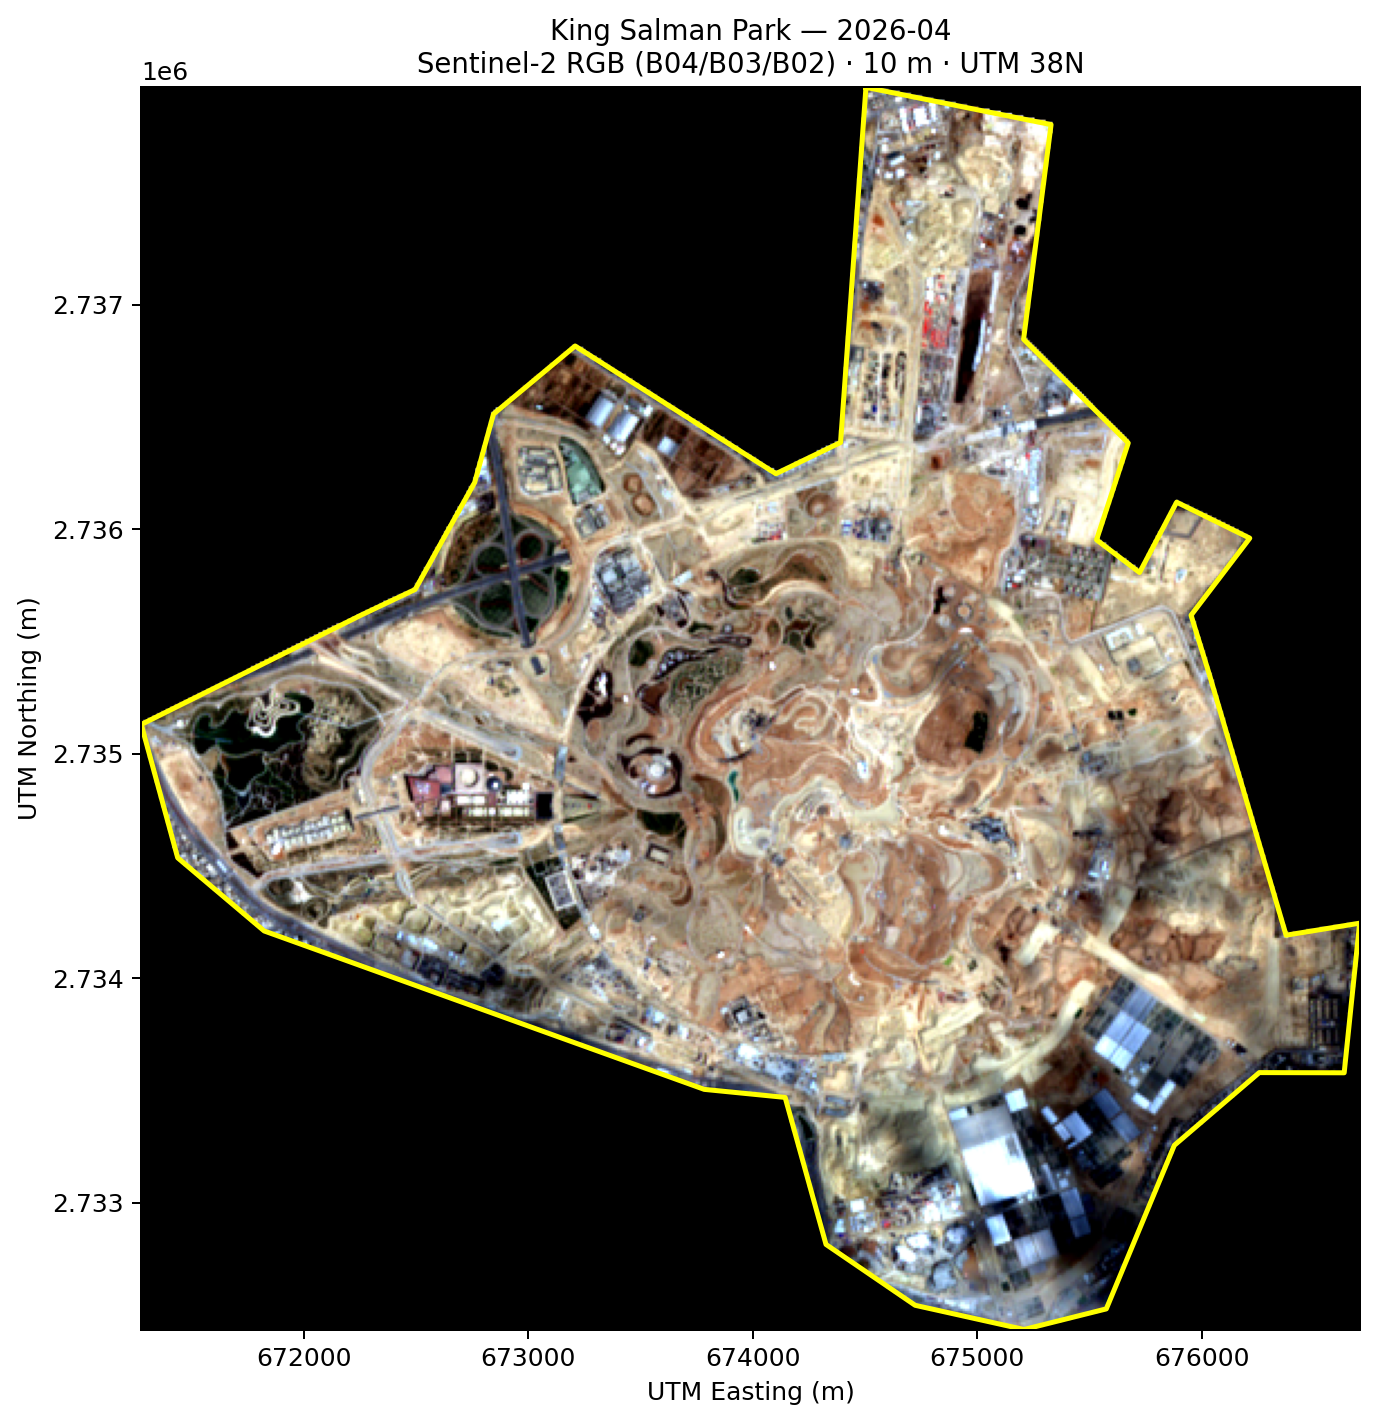
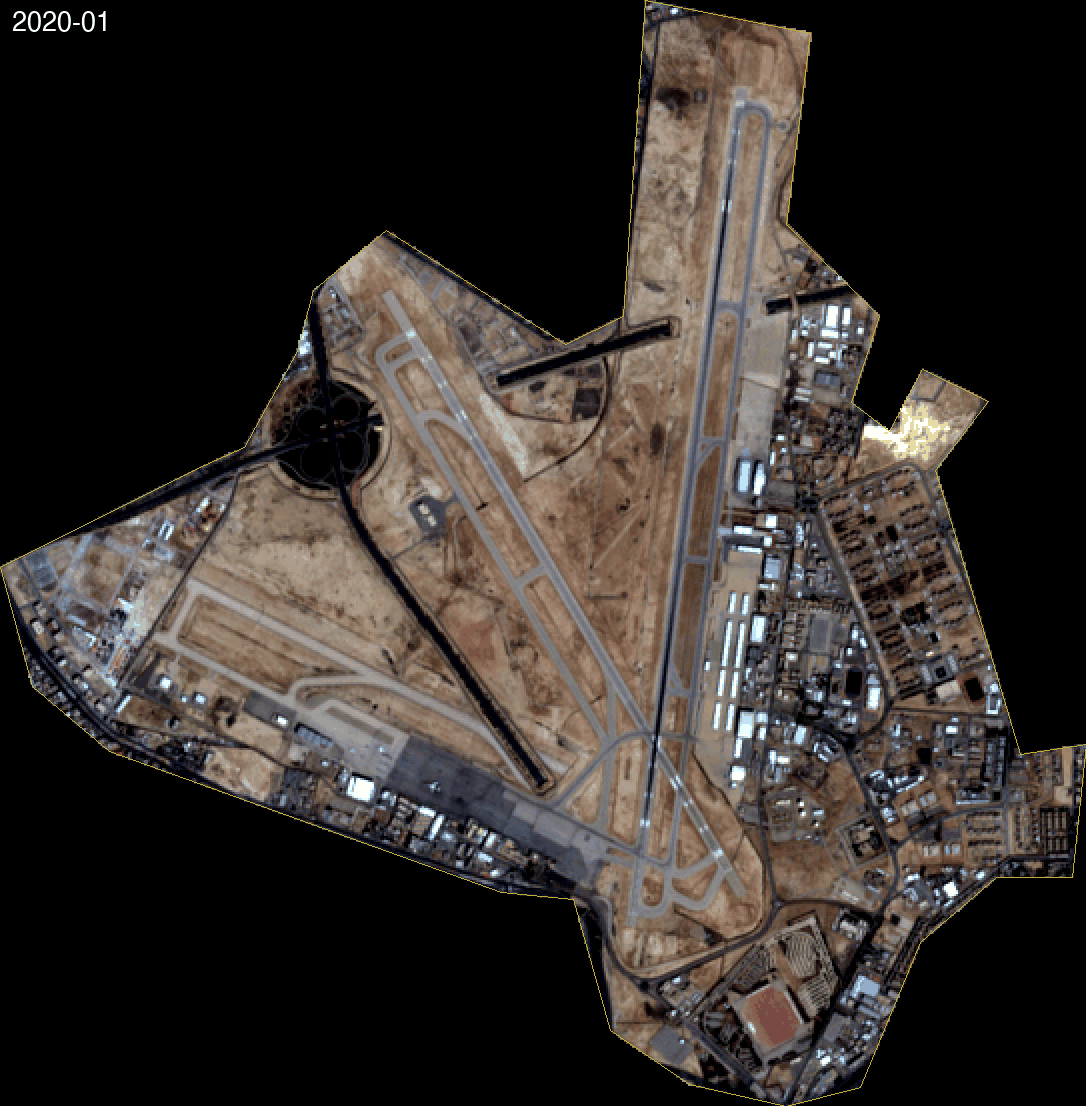
Fix mask alignment: regenerate preview PNGs at GIF dimensions
Preview PNGs were 30-45% larger than GIFs with different aspect ratios,
causing object-fit: cover to crop the polygon and break mask alignment.
Regenerated all three from GIF frame 0 (PIL seek(0) + convert RGB):
  qiddiya_core_preview.png     1419×836 → 1110×598
  king_salman_park_preview.png 1377×1423 → 1086×1106
  diriyah_gate_preview.png     1420×889 → 1065×615

Dimensions now match GIFs and masks exactly (match=True all three).

Removed object-fit: cover from .timelapse-gif: frame and image now
share exact aspect ratio so no fit adjustment is needed; mask aligns
pixel-accurately in both playing (GIF) and paused (PNG) states.
.timelapse-backdrop retains object-fit: cover (context JPEG differs).

diff --git a/index.html b/index.html
@@ -314,8 +314,8 @@
       display: block;
       width: 100%;
       height: 100%;
-      object-fit: cover;
-      /* mask-image applied inline per AOI (polygon mask PNG at GIF dimensions) */
+      /* object-fit removed — frame and image share exact aspect ratio after
+         preview PNG regeneration; no fit adjustment needed, mask aligns exactly */
     }
 
     /* Pause indicator */

diff --git a/docs/phase1_notes.md b/docs/phase1_notes.md
@@ -110,6 +110,20 @@ For a blurred backdrop this size may be perfectly adequate.
 
 ---
 
+## Fix: preview PNG alignment and object-fit (2026-04-22)
+
+Preview PNGs regenerated at exact GIF dimensions by extracting frame 0 from each GIF
+(`gif.seek(0); gif.convert('RGB').save(...)`). Previous preview PNGs were ~30–45% larger
+in each dimension with different aspect ratios, causing `object-fit: cover` to crop the
+polygon and break mask alignment. Sizes now: 1110×598 / 1086×1106 / 1065×615 — matching
+GIFs and masks exactly.
+
+Removed `object-fit: cover` from `.timelapse-gif`: since frame and image now share the
+same aspect ratio, no fit adjustment is needed and the mask aligns pixel-accurately.
+`.timelapse-backdrop` retains `object-fit: cover` (context JPEG has different dims).
+
+---
+
 ## Next session priorities
 
 1. Before/after sliders — lightweight JS, no library (Ch 2–4)